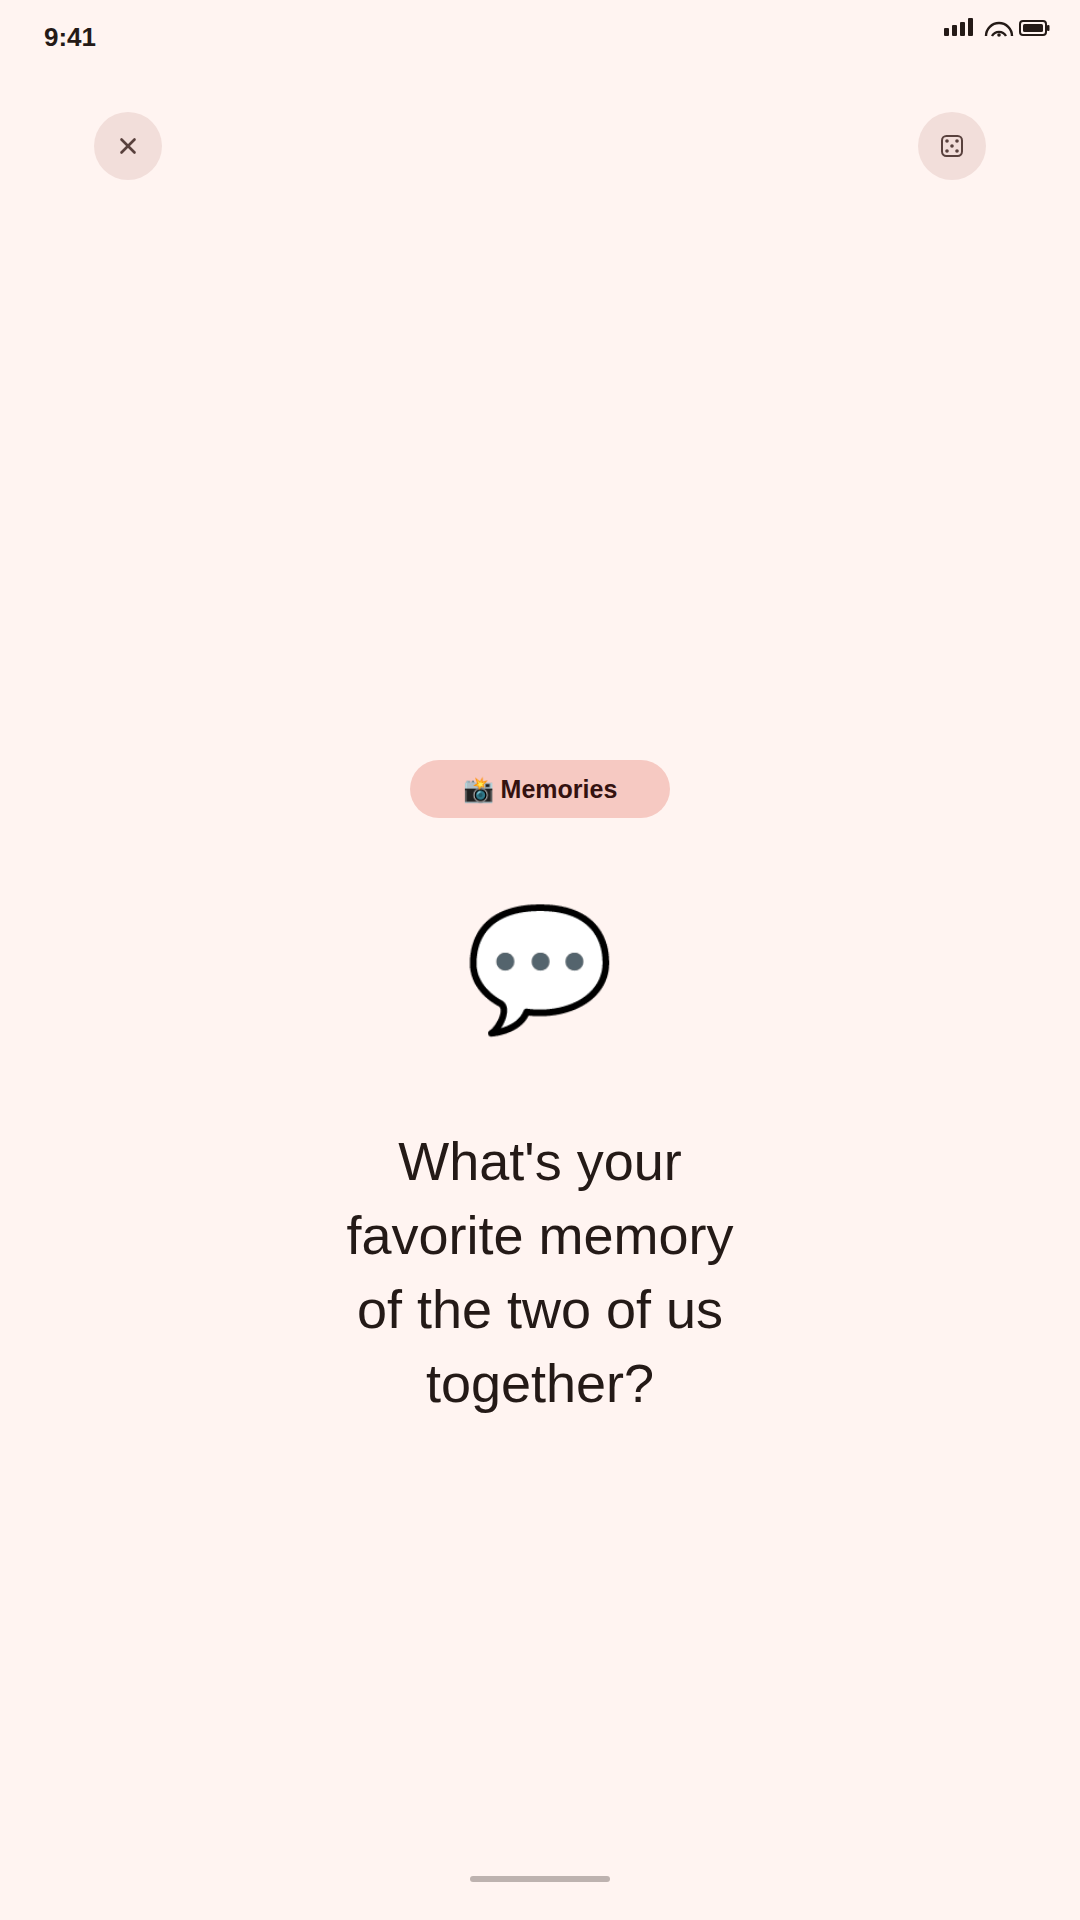
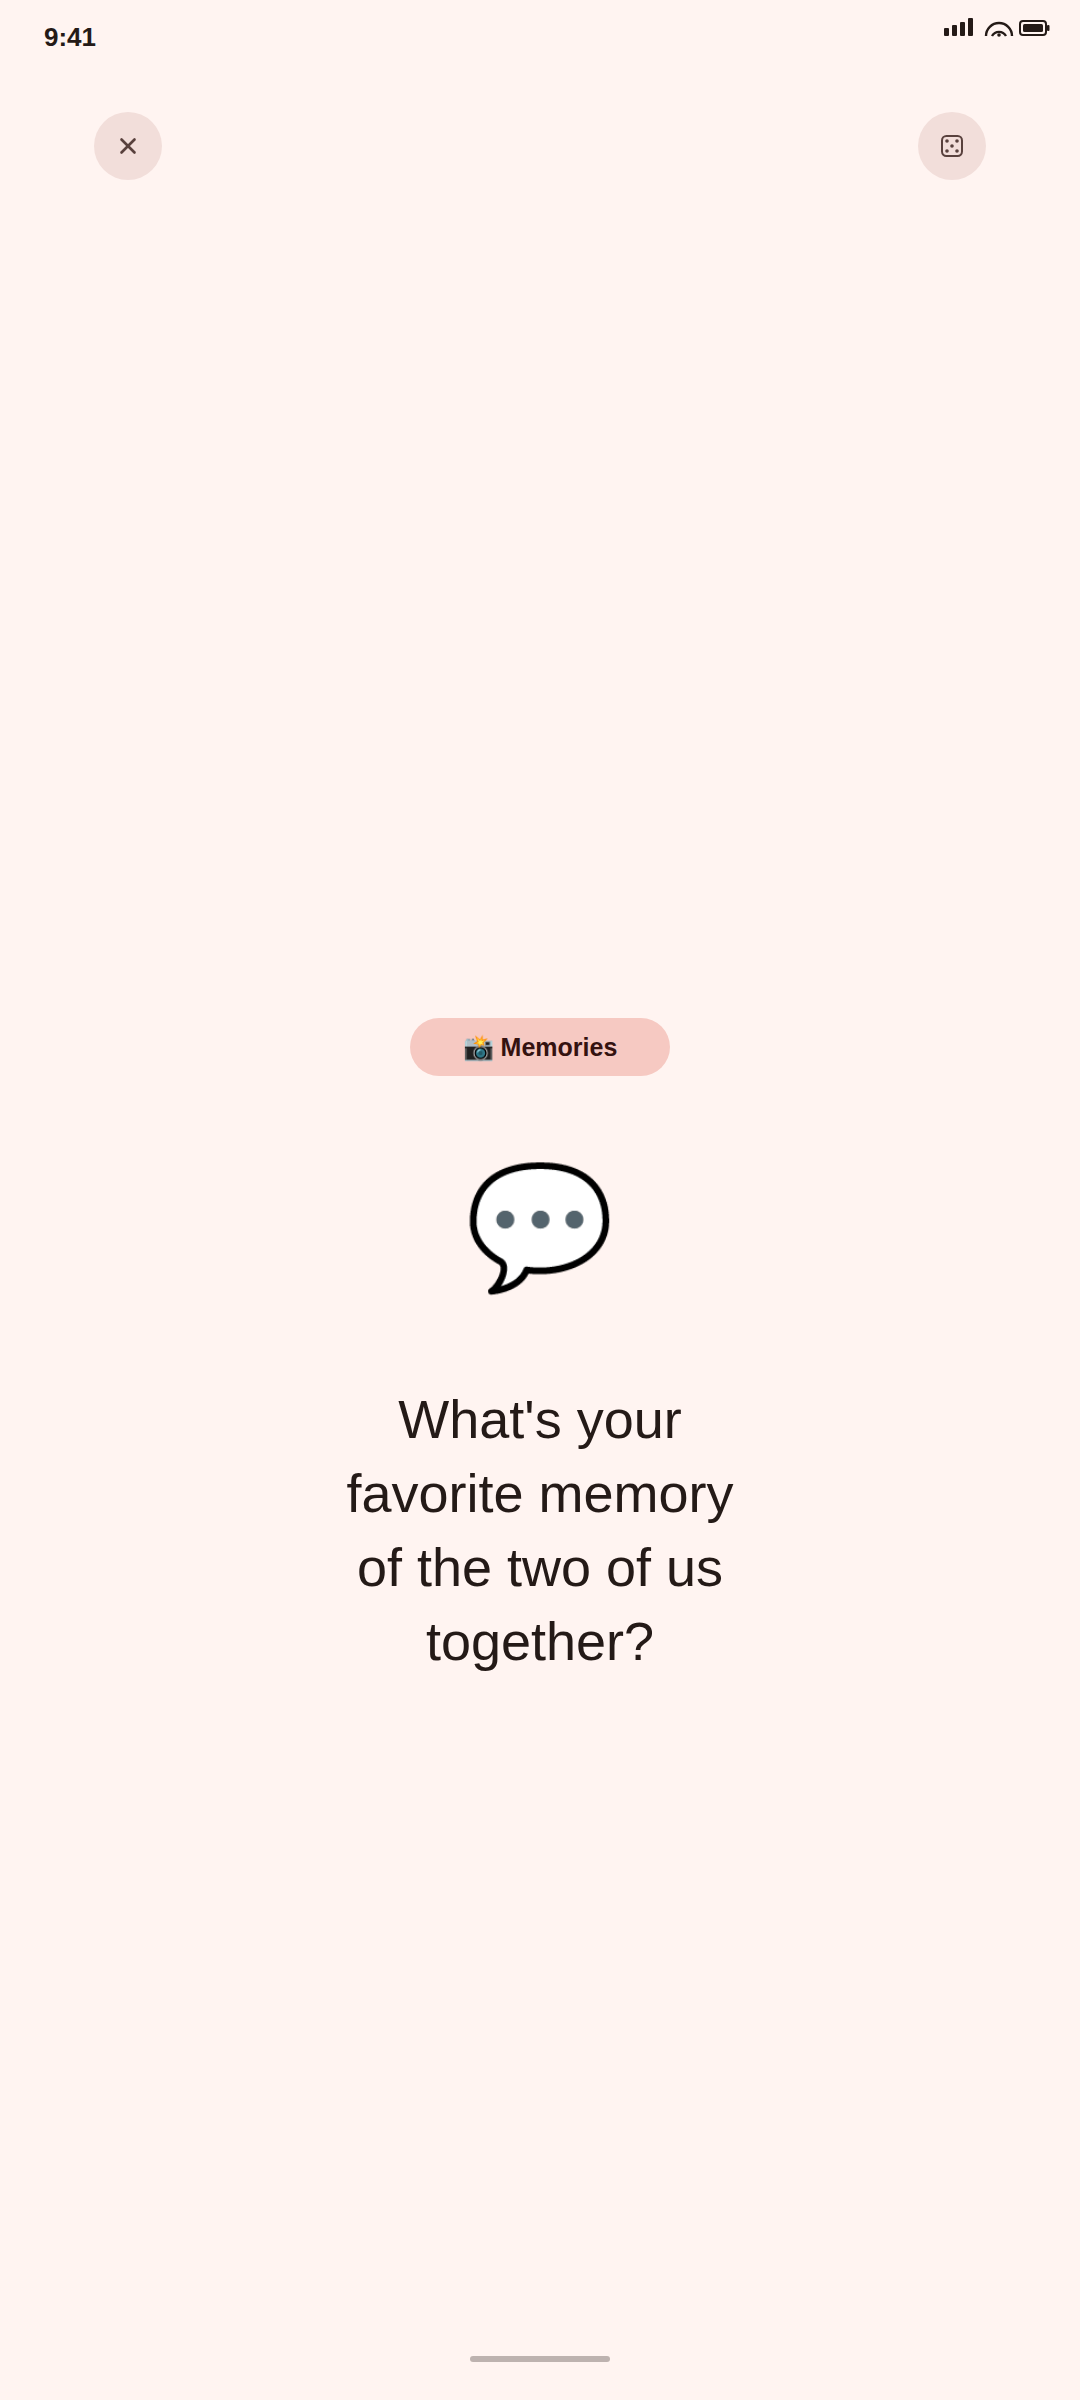
Resize Play Store phone screenshots to a modern Pixel aspect ratio
The four phone screenshots were 1080x1920 (16:9), which reads as
squarer/shorter than a real modern flagship phone and looked
tablet-proportioned next to one. Switch to 1080x2400 (20:9, matching
recent Pixel hardware), and rework each screenshot's layout so the
extra height goes to sensible places instead of dead space:

- Home: the swipe-card grows taller; the page dots, "All" filter, grid
  button, and gesture bar stay pinned the same distance from the
  bottom edge as before.
- Full-screen question: the pill/emoji/question block shifts down to
  stay vertically centered between the top icon row and the bottom
  edge on the taller canvas.
- Grid: the cards grow taller (rather than just adding gap) to fill
  the added height, keeping the same gap to the "All" filter below.
- Settings: the extra height is spread across the gaps between
  sections, instead of leaving one large blank strip below the footer
  like a straight bottom-pin would.

Claude-Session: https://claude.ai/code/session_01HsvnX2Jpbs3UZayHCfeFox

diff --git a/docs/playstore/assets/generate.py b/docs/playstore/assets/generate.py
@@ -332,10 +332,14 @@ def gen_feature_graphic():
     run_render(p, os.path.join(OUT_DIR, "feature-graphic-1024x500.png"), 1024, 500)
 
 
-W, H = 1080, 1920
+# 1080x2400 (20:9) matches a modern flagship phone (e.g. Pixel 10) rather than the squarer 16:9
+# (1080x1920) used previously, which read as tablet-proportioned next to a real phone screenshot.
+W, H = 1080, 2400
 
 
 def gen_screenshot_home():
+    card_h = H - 680  # bottom-pinned nav below stays same distance from the bottom edge as at H=1920
+    dots_cy = H - 296
     dots = ""
     total, current = 7, 2
     for i in range(total):
@@ -343,7 +347,7 @@ def gen_screenshot_home():
         r = 8 if i == current else 6
         fill = PRIMARY if i == current else OUTLINE
         op = 1.0 if i == current else 0.4
-        dots += f'<circle cx="{cx}" cy="1624" r="{r}" fill="{fill}" opacity="{op}"/>'
+        dots += f'<circle cx="{cx}" cy="{dots_cy}" r="{r}" fill="{fill}" opacity="{op}"/>'
 
     question = "What's the funniest thing that's happened to either of us this week?"
     svg = f'''<svg xmlns="http://www.w3.org/2000/svg" width="{W}" height="{H}" viewBox="0 0 {W} {H}">
@@ -361,31 +365,35 @@ def gen_screenshot_home():
 {status_bar(W)}
 {top_bar(W, subtitle=True)}
 
-<rect x="60" y="336" width="960" height="1240" rx="40" fill="#000000" fill-opacity="0.06"/>
-<rect x="60" y="326" width="960" height="1240" rx="40" fill="{WHITE}" stroke="{SURFACE_VARIANT}" stroke-width="2"/>
-<rect x="60" y="326" width="960" height="1240" rx="40" fill="url(#cardTint)"/>
+<rect x="60" y="336" width="960" height="{card_h}" rx="40" fill="#000000" fill-opacity="0.06"/>
+<rect x="60" y="326" width="960" height="{card_h}" rx="40" fill="{WHITE}" stroke="{SURFACE_VARIANT}" stroke-width="2"/>
+<rect x="60" y="326" width="960" height="{card_h}" rx="40" fill="url(#cardTint)"/>
 
 {pill(430, 400, 220, 56, SECONDARY_CONTAINER, EMOJI_ICE + " Ice Breakers", ON_SECONDARY_CONTAINER, 24, "600", "middle")}
 
 {text_lines(wrap_text(question, 21), W/2, 540, 62, 46, ON_SURFACE, text_anchor="middle")}
 
-<text x="{W/2}" y="1480" font-family="{FONT}" font-size="26" font-style="italic" fill="{ON_SURFACE_VARIANT}"
+<text x="{W/2}" y="{H-440}" font-family="{FONT}" font-size="26" font-style="italic" fill="{ON_SURFACE_VARIANT}"
       text-anchor="middle">Take turns sharing your answers</text>
 
 {dots}
 
-{pill(60, 1690, 150, 56, SURFACE_VARIANT, "All ▾", ON_SURFACE_VARIANT, 24, "600", "middle")}
+{pill(60, H-230, 150, 56, SURFACE_VARIANT, "All ▾", ON_SURFACE_VARIANT, 24, "600", "middle")}
 
-<circle cx="1000" cy="1800" r="44" fill="{SURFACE_VARIANT}"/>
-{glyph_grid(1000, 1800)}
+<circle cx="1000" cy="{H-120}" r="44" fill="{SURFACE_VARIANT}"/>
+{glyph_grid(1000, H-120)}
 
-{gesture_bar(W, 1876)}
+{gesture_bar(W, H-44)}
 </svg>'''
     p = write_svg("screenshot-1-home", svg)
     run_render(p, os.path.join(OUT_DIR, "screenshot-1-home.png"), W, H)
 
 
 def gen_screenshot_fullscreen():
+    # Content block (pill/emoji/question) is vertically centered between the top icon row and the
+    # gesture bar; shift it down from its H=1920 position to keep that same centered ratio on the
+    # taller canvas, rather than leaving it stranded near the top with a big empty bottom half.
+    content_shift = int(round(0.5372 * (H - 1920)))
     question = "What's your favorite memory of the two of us together?"
     svg = f'''<svg xmlns="http://www.w3.org/2000/svg" width="{W}" height="{H}" viewBox="0 0 {W} {H}">
 <rect width="{W}" height="{H}" fill="{SURFACE}"/>
@@ -396,13 +404,13 @@ def gen_screenshot_fullscreen():
 <circle cx="{W-128}" cy="146" r="34" fill="{SURFACE_VARIANT}"/>
 {glyph_dice(W-128, 146)}
 
-{pill(W/2-130, 760, 260, 58, SECONDARY_CONTAINER, EMOJI_MEMORIES + " Memories", ON_SECONDARY_CONTAINER, 25, "600", "middle")}
+{pill(W/2-130, 760+content_shift, 260, 58, SECONDARY_CONTAINER, EMOJI_MEMORIES + " Memories", ON_SECONDARY_CONTAINER, 25, "600", "middle")}
 
-<text x="{W/2}" y="1010" font-family="{FONT}" font-size="120" text-anchor="middle">&#128172;</text>
+<text x="{W/2}" y="{1010+content_shift}" font-family="{FONT}" font-size="120" text-anchor="middle">&#128172;</text>
 
-{text_lines(wrap_text(question, 17), W/2, 1180, 74, 54, ON_SURFACE, text_anchor="middle")}
+{text_lines(wrap_text(question, 17), W/2, 1180+content_shift, 74, 54, ON_SURFACE, text_anchor="middle")}
 
-{gesture_bar(W, 1876)}
+{gesture_bar(W, H-44)}
 </svg>'''
     p = write_svg("screenshot-2-fullscreen", svg)
     run_render(p, os.path.join(OUT_DIR, "screenshot-2-fullscreen.png"), W, H)
@@ -426,7 +434,9 @@ def gen_screenshot_grid():
     gap = 22
     cols = 3
     colw = (W - 2 * margin - (cols - 1) * gap) / cols
-    cardh = colw / 0.75
+    # Grow the cards (rather than just the gap below them) to fill the taller canvas, keeping the
+    # same gap between the grid and the "All" pill below it as at H=1920.
+    cardh = (H - 698.7) / 3
     cards = ""
     for i, (emoji, text) in enumerate(GRID_ITEMS):
         r, c = divmod(i, cols)
@@ -456,12 +466,12 @@ def gen_screenshot_grid():
 {cards}
 </g>
 
-{pill(60, 1700, 150, 56, SURFACE_VARIANT, "All ▾", ON_SURFACE_VARIANT, 24, "600", "middle")}
+{pill(60, H-220, 150, 56, SURFACE_VARIANT, "All ▾", ON_SURFACE_VARIANT, 24, "600", "middle")}
 
-<circle cx="1000" cy="1800" r="44" fill="{SURFACE_VARIANT}"/>
-{glyph_carousel(1000, 1800)}
+<circle cx="1000" cy="{H-120}" r="44" fill="{SURFACE_VARIANT}"/>
+{glyph_carousel(1000, H-120)}
 
-{gesture_bar(W, 1876)}
+{gesture_bar(W, H-44)}
 </svg>'''
     p = write_svg("screenshot-3-grid", svg)
     run_render(p, os.path.join(OUT_DIR, "screenshot-3-grid.png"), W, H)
@@ -482,6 +492,19 @@ def gen_screenshot_settings():
         "Reset to bring them all back.", 46)
     about_desc = "Strengthening couples, one question at a time. " + EMOJI_HEART_SMALL
 
+    # Sections are a top-anchored scrollable list in the real screen, so at H=1920 the leftover
+    # space below the footer was one large blank strip. Spread the extra height from the taller
+    # canvas across the gaps *between* sections instead, so the page reads as a well-composed
+    # screenshot rather than mostly-empty content pinned to the top third of the screen.
+    label1_y = 344
+    card1_y = 411
+    label2_y = 689
+    card2_y = 756
+    label3_y = 1194
+    card3_y = 1261
+    footer1_y = 1676
+    footer2_y = 1708
+
     svg = f'''<svg xmlns="http://www.w3.org/2000/svg" width="{W}" height="{H}" viewBox="0 0 {W} {H}">
 <rect width="{W}" height="{H}" fill="{BACKGROUND}"/>
 {status_bar(W)}
@@ -491,27 +514,27 @@ def gen_screenshot_settings():
 <text x="112" y="158" font-family="{FONT}" font-size="38" font-weight="700" fill="{ON_SURFACE}">Settings</text>
 <line x1="0" y1="196" x2="{W}" y2="196" stroke="{SURFACE_VARIANT}" stroke-width="2"/>
 
-{section_label(258, "App Preferences")}
-{card(286, 130)}
-{glyph_globe(120, 351)}
-<text x="168" y="343" font-family="{FONT}" font-size="26" font-weight="600" fill="{ON_SURFACE}">App Language</text>
-<text x="168" y="378" font-family="{FONT}" font-size="21" fill="{ON_SURFACE_VARIANT}">Change language in Android settings</text>
+{section_label(label1_y, "App Preferences")}
+{card(card1_y, 130)}
+{glyph_globe(120, card1_y+65)}
+<text x="168" y="{card1_y+57}" font-family="{FONT}" font-size="26" font-weight="600" fill="{ON_SURFACE}">App Language</text>
+<text x="168" y="{card1_y+92}" font-family="{FONT}" font-size="21" fill="{ON_SURFACE_VARIANT}">Change language in Android settings</text>
 
-{section_label(478, "Reset Cards")}
-{card(506, 300)}
-{text_lines(reset_desc, 108, 564, 30, 22, ON_SURFACE)}
-{pill(108, 704, 260, 66, PRIMARY, "Reset Cards", ON_PRIMARY, 24, "700", "middle")}
+{section_label(label2_y, "Reset Cards")}
+{card(card2_y, 300)}
+{text_lines(reset_desc, 108, card2_y+58, 30, 22, ON_SURFACE)}
+{pill(108, card2_y+198, 260, 66, PRIMARY, "Reset Cards", ON_PRIMARY, 24, "700", "middle")}
 
-{section_label(864, "About")}
-{card(892, 220)}
-<text x="108" y="948" font-family="{FONT}" font-size="27" font-weight="700" fill="{ON_SURFACE}">Couple Moments: LoopGain</text>
-<text x="108" y="986" font-family="{FONT}" font-size="21" fill="{ON_SURFACE_VARIANT}">Version 1.0.0</text>
-{text_lines(wrap_text(about_desc, 40), 108, 1030, 30, 22, ON_SURFACE)}
+{section_label(label3_y, "About")}
+{card(card3_y, 220)}
+<text x="108" y="{card3_y+56}" font-family="{FONT}" font-size="27" font-weight="700" fill="{ON_SURFACE}">Couple Moments: LoopGain</text>
+<text x="108" y="{card3_y+94}" font-family="{FONT}" font-size="21" fill="{ON_SURFACE_VARIANT}">Version 1.0.0</text>
+{text_lines(wrap_text(about_desc, 40), 108, card3_y+138, 30, 22, ON_SURFACE)}
 
-<text x="{W/2}" y="1194" font-family="{FONT}" font-size="21" fill="{ON_SURFACE_VARIANT}" text-anchor="middle">Couple Moments is part of the LoopGain family tools</text>
-<text x="{W/2}" y="1226" font-family="{FONT}" font-size="21" fill="{ON_SURFACE_VARIANT}" text-anchor="middle">by Pedro Vicente</text>
+<text x="{W/2}" y="{footer1_y}" font-family="{FONT}" font-size="21" fill="{ON_SURFACE_VARIANT}" text-anchor="middle">Couple Moments is part of the LoopGain family tools</text>
+<text x="{W/2}" y="{footer2_y}" font-family="{FONT}" font-size="21" fill="{ON_SURFACE_VARIANT}" text-anchor="middle">by Pedro Vicente</text>
 
-{gesture_bar(W, 1876)}
+{gesture_bar(W, H-44)}
 </svg>'''
     p = write_svg("screenshot-4-settings", svg)
     run_render(p, os.path.join(OUT_DIR, "screenshot-4-settings.png"), W, H)

diff --git a/docs/playstore/assets/README.md b/docs/playstore/assets/README.md
@@ -11,10 +11,10 @@ headless Chromium `headless_shell` binary when `sips` isn't on PATH (e.g. on Lin
 | --- | --- | --- |
 | `icon-512.png` | Hi-res icon | 512×512, 32-bit PNG |
 | `feature-graphic-1024x500.png` | Feature graphic | 1024×500, PNG/JPEG, no alpha |
-| `screenshot-1-home.png` | Phone screenshot — swipe deck | 1080×1920 (9:16) |
-| `screenshot-2-fullscreen.png` | Phone screenshot — full-screen question | 1080×1920 |
-| `screenshot-3-grid.png` | Phone screenshot — grid view | 1080×1920 |
-| `screenshot-4-settings.png` | Phone screenshot — Settings | 1080×1920 |
+| `screenshot-1-home.png` | Phone screenshot — swipe deck | 1080×2400 (20:9, e.g. Pixel 10) |
+| `screenshot-2-fullscreen.png` | Phone screenshot — full-screen question | 1080×2400 |
+| `screenshot-3-grid.png` | Phone screenshot — grid view | 1080×2400 |
+| `screenshot-4-settings.png` | Phone screenshot — Settings | 1080×2400 |
 
 All are en-US only; Play falls back to this set for locales without their own screenshots. Add a
 `screenshots/<locale>/` subfolder if per-locale screenshots are ever wanted for the other listed
